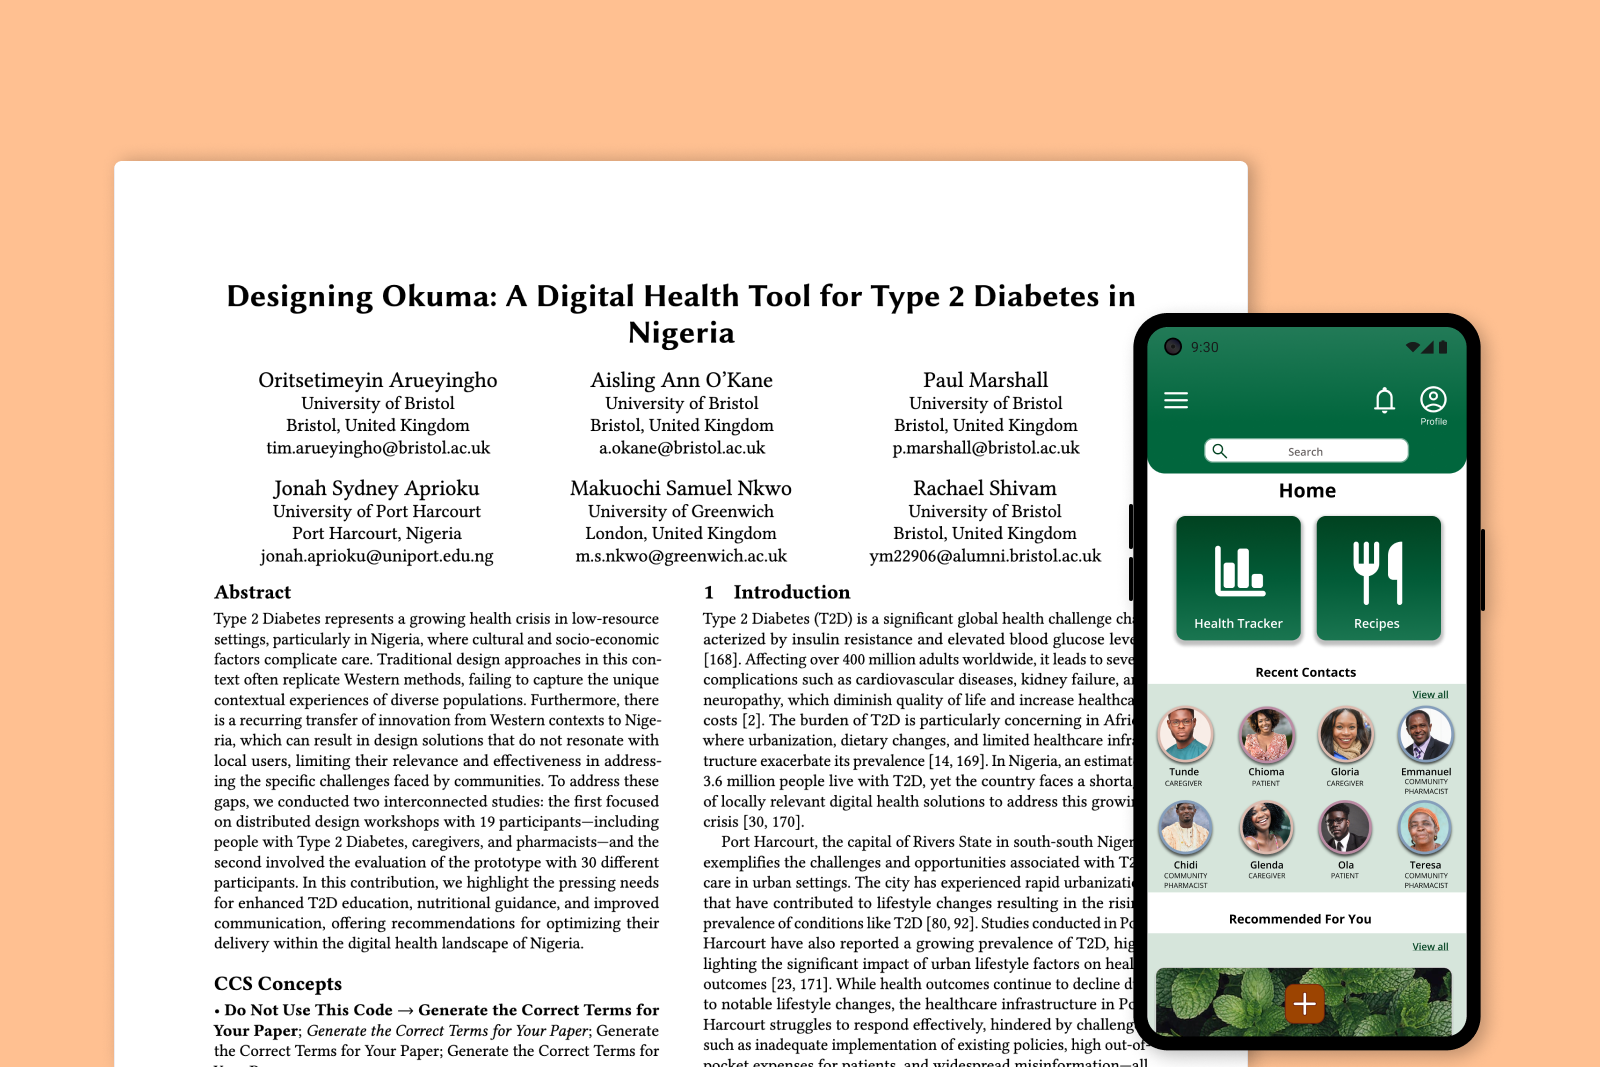
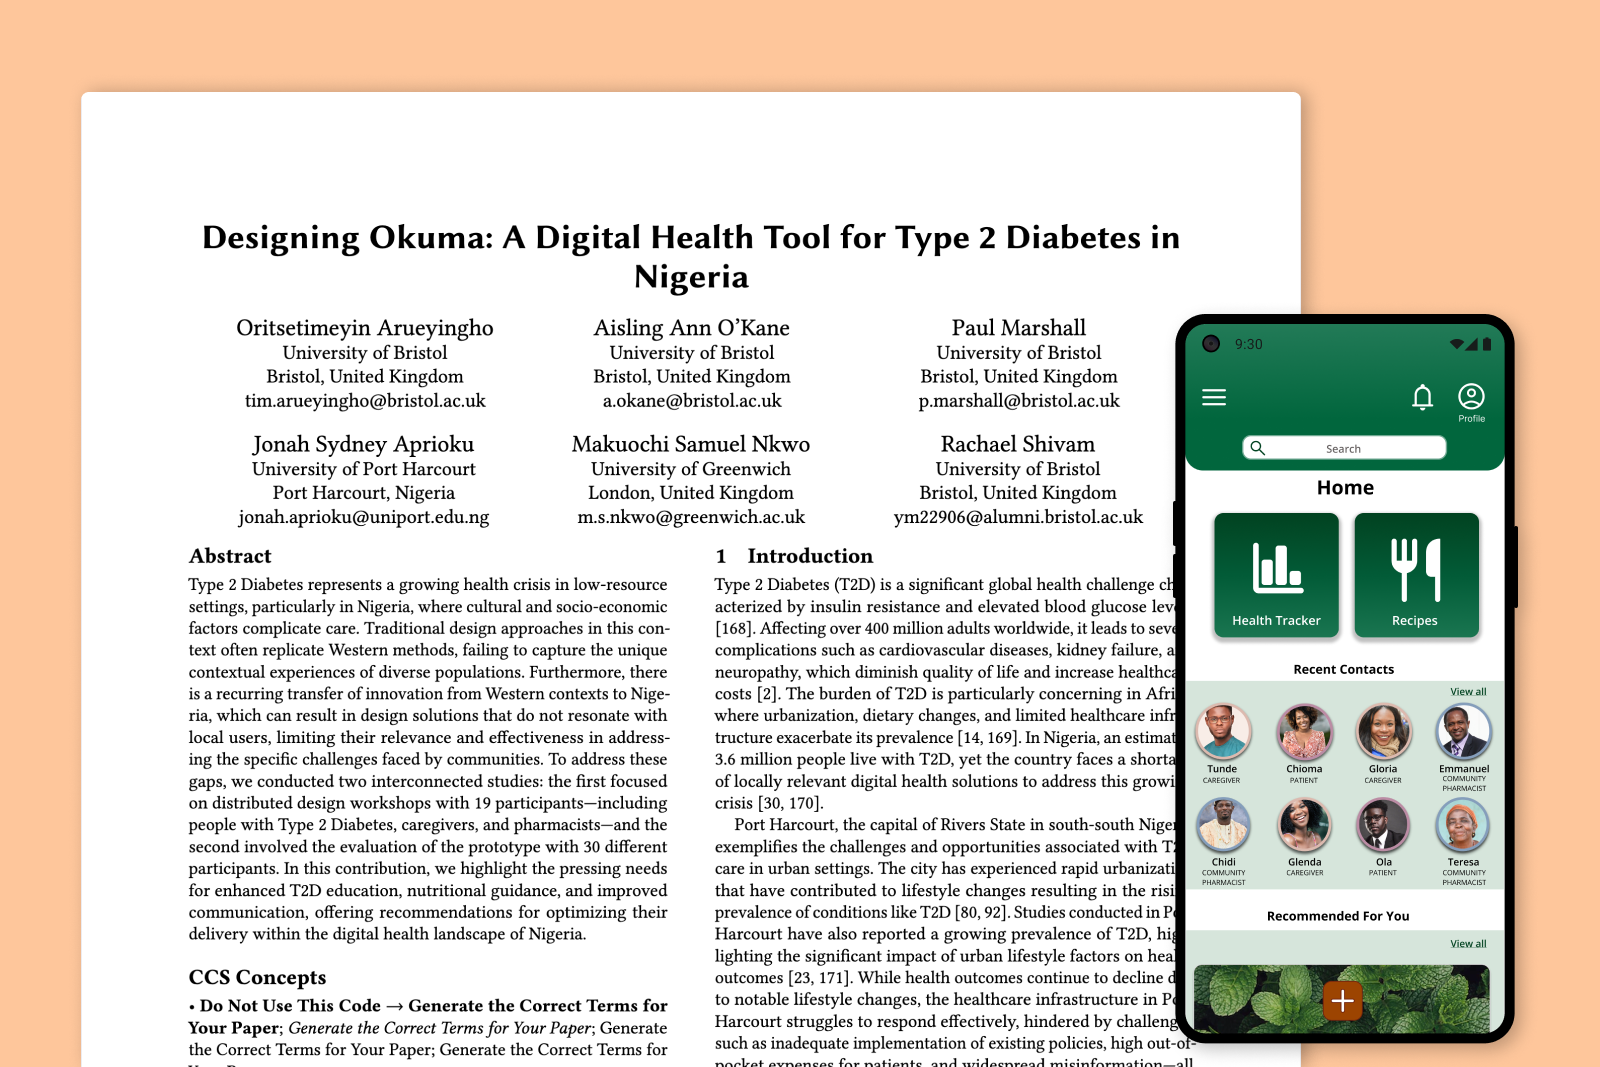
added luteasense thumbnail

diff --git a/app/about/page.tsx b/app/about/page.tsx
@@ -3,7 +3,6 @@ import Image from "next/image";
 import Footer from "@/components/Footer";
 import { creativeWork } from "@/data/creativeWork";
 import { experience } from "@/data/experience";
-import ExperienceAccordion from "@/components/ExperienceAccordion";
 
 export const metadata: Metadata = {
   title: "About — Rachael Shivam",
@@ -18,7 +17,7 @@ export default function AboutPage() {
         className="px-[var(--space-4)] py-[var(--space-10)] sm:px-[var(--space-6)]"
       >
         <div className="mx-auto grid w-full max-w-[var(--max-width-content)] gap-[var(--space-8)] md:grid-cols-2 md:items-center md:gap-[var(--space-9)]">
-          <div>
+          <div className="md:self-start md:mt-[var(--space-8)]">
             <h1
               id="about-heading"
               className="text-[clamp(2rem,4vw,var(--text-4xl))] leading-[var(--leading-tight)]"
@@ -62,7 +61,28 @@ export default function AboutPage() {
             Experience
           </h2>
 
-          <ExperienceAccordion items={experience} />
+          <div className="flex flex-wrap justify-between gap-[var(--space-6)] mt-[var(--space-8)]">
+            {experience.map((item) => (
+              <div
+                key={`${item.organisation}-${item.period}`}
+                className="relative group"
+              >
+                <div className="h-[96px] w-[96px] cursor-pointer rounded-xl bg-[var(--color-border)]"></div>
+                <div className="absolute top-full left-1/2 -translate-x-1/2 mt-[var(--space-2)] w-max bg-white rounded-lg shadow-lg p-[var(--space-3)] whitespace-nowrap opacity-0 group-hover:opacity-100 transition-opacity pointer-events-none">
+                  <p className="text-[0.875rem] text-[#212121] font-medium">
+                    {item.role}
+                  </p>
+                  <p className="mt-[var(--space-1)] text-[0.75rem] text-[var(--color-text-muted)]">
+                    {item.organisation}
+                    {item.context && <span> · {item.context}</span>}
+                  </p>
+                  <p className="mt-[var(--space-1)] text-[0.75rem] text-[var(--color-text-muted)]">
+                    {item.period}
+                  </p>
+                </div>
+              </div>
+            ))}
+          </div>
         </div>
       </section>
 

diff --git a/data/experience.tsx b/data/experience.tsx
@@ -3,7 +3,6 @@ export type Experience = {
   organisation: string;
   context?: string;
   period: string;
-  description: string;
   current?: boolean;
 };
 
@@ -12,7 +11,6 @@ export const experience: Experience[] = [
     role: "Product Designer",
     organisation: "PLUS",
     period: "May 2026 – Present",
-    description: "Placeholder description.",
     current: true,
   },
   {
@@ -20,40 +18,34 @@ export const experience: Experience[] = [
     organisation: "LuteaSense",
     context: "Course project turned startup",
     period: "January 2026 – May 2026",
-    description: "Placeholder description.",
   },
   {
     role: "Product Manager",
     organisation: "ARM Institute",
     context: "MHCI Capstone",
     period: "January 2026 – July 2026",
-    description: "Placeholder description.",
   },
   {
     role: "Research Analyst",
     organisation: "BNY",
     context: "Measuring Social industry-sponsored project",
     period: "January 2026 – May 2026",
-    description: "Placeholder description.",
   },
   {
     role: "Product Designer & Strategist",
     organisation: "Precision Health",
     context: "CMU Corporate Startup Lab",
     period: "August 2025 – December 2025",
-    description: "Placeholder description.",
   },
   {
     role: "UX Designer",
     organisation: "University of Bristol",
     context: "MSc Dissertation",
     period: "May 2023 – September 2023",
-    description: "Placeholder description.",
   },
   {
     role: "Dentist, Clinical Leader & Service Designer",
     organisation: "NHS",
     period: "September 2016 – July 2025",
-    description: "Placeholder description.",
   },
 ];

diff --git a/data/caseStudies.tsx b/data/caseStudies.tsx
@@ -933,8 +933,8 @@ export const caseStudies: CaseStudy[] = [
     intro: "LuteaSense is a multimodal biosensor patch that continuously monitors hormone levels and predicts PMDD symptoms 24-48 hours in advance — giving users the time and information they need to manage what's coming. At Demo Day for CMU's Medical Device Innovation and Realization (MDIR) course, LuteaSense was voted 1st place overall by a panel of industry expert judges. We are now pursuing LuteaSense as a startup through CMU's Swartz Center for Entrepreneurship.",
     summary: "Led product and design for a wearable biosensor that predicts PMDD symptoms 24-48 hours in advance for women and AFAB individuals. 1st place overall at CMU MDIR Demo Day 2026, now pursuing as a Swartz Center startup.",
     tags: ["Product Design", "Women's Health", "Wearable Tech"],
-    thumbnail: "/images/luteasense-thumbnail.jpg",
-    heroImage: "/images/luteasense-hero.jpg",
+    thumbnail: "/images/luteasense-thumbnail.png",
+    heroImage: "/images/luteasense-thumbnail.png",
     metadata: [
       { label: "Role", value: "Chief Product Officer" },
       { label: "Timeline", value: "January - May 2026" },
@@ -958,7 +958,7 @@ export const caseStudies: CaseStudy[] = [
       },
       {
         type: "image",
-        src: "/images/luteasense-team.jpg",
+        src: "/images/luteasense-team.png",
         alt: "LuteaSense team at CMU MDIR Demo Day 2026",
         caption: "LuteaSense team at MDIR Demo Day 2026"
       },
